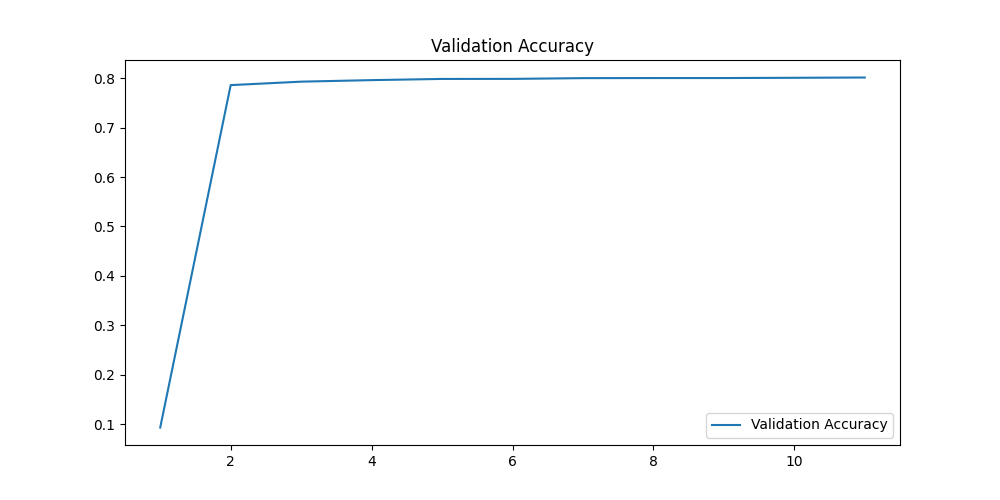
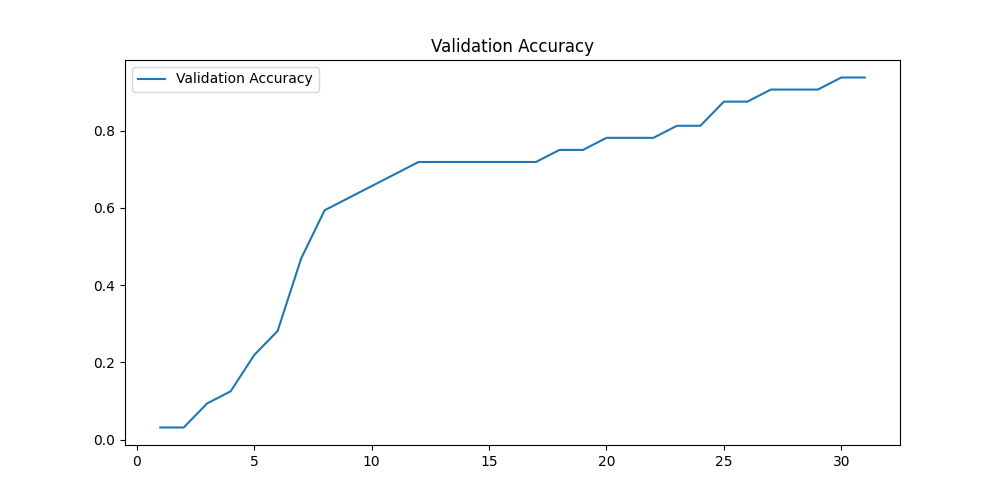
fixes

diff --git a/src/face_classification/train.py b/src/face_classification/train.py
@@ -1,24 +1,17 @@
 import torch
 import typer
+from pytorch_lightning import Trainer
+from pytorch_lightning.callbacks import ModelCheckpoint
+
 from metric_tracker import MetricTracker
 from model import PretrainedResNet34
-from pytorch_lightning import Trainer
-from pytorch_lightning.callbacks import Callback, ModelCheckpoint
-from torchvision import datasets, transforms
+from data import FaceDataset
 
-transform = transforms.Compose(
-    [
-        transforms.Resize((256, 256)),
-        transforms.ToTensor(),
-    ]
-)
-
-device = torch.device("cuda" if torch.cuda.is_available() else "mps" if torch.backends.mps.is_available() else "cpu")
 app = typer.Typer()
 
 # Hyperparameters
 BATCH_SIZE = 32
-EPOCHS = 2
+EPOCHS = 30
 
 
 @app.command()
@@ -26,22 +19,22 @@ def train(batch_size: int = BATCH_SIZE, epochs: int = EPOCHS) -> None:
     """Train a model on CIFAR10."""
     print("Training day and night")
 
-    train_set = datasets.CIFAR10("/tmp/cifar10", train=True, download=True, transform=transform)
-    val_set = datasets.CIFAR10("/tmp/cifar10", train=False, download=True, transform=transform)
+    train_set = FaceDataset(mode="train")
+    val_set = FaceDataset(mode="val")
     train_dataloader = torch.utils.data.DataLoader(train_set, batch_size=batch_size, num_workers=4)
     val_dataloader = torch.utils.data.DataLoader(val_set, batch_size=batch_size, num_workers=4)
 
-    model = PretrainedResNet34(num_classes=10).to(device)
+    model = PretrainedResNet34(num_classes=16)
     checkpoint_callback = ModelCheckpoint(
         monitor="val_acc",
         dirpath="checkpoints/",
-        filename="model-{epoch:02d}-{val_loss:.2f}",
+        filename="model-{epoch:02d}-{val_acc:.2f}",
         save_top_k=3,
         mode="max",
     )
     metric_tracker = MetricTracker()
 
-    trainer = Trainer(max_epochs=epochs, callbacks=[checkpoint_callback, metric_tracker])
+    trainer = Trainer(max_epochs=epochs, callbacks=[checkpoint_callback, metric_tracker], accelerator="auto")
     trainer.fit(model, train_dataloader, val_dataloaders=val_dataloader)
     print("Training finished")
 

diff --git a/src/face_classification/model.py b/src/face_classification/model.py
@@ -62,32 +62,27 @@ class PretrainedResNet34(pl.LightningModule):
 
         return self.model(x)
 
-    def training_step(self, batch, batch_idx):
-        """Training step."""
+
+    def _step(self, batch, mode):
+        """Common step function."""
         img, target = batch
         y_pred = self(img)
         loss = self.criterion(y_pred, target)
-        self.log("train_loss", loss, prog_bar=True, on_epoch=True, on_step=False)
-        self.log("train_acc", accuracy(y_pred, target), prog_bar=True, on_epoch=True, on_step=False)
+        self.log(f"{mode}_loss", loss, prog_bar=True, on_epoch=True, on_step=False)
+        self.log(f"{mode}_acc", accuracy(y_pred, target), prog_bar=True, on_epoch=True, on_step=False)
         return loss
+
+    def training_step(self, batch, batch_idx):
+        """Training step."""
+        return self._step(batch, "train")
 
     def validation_step(self, batch, batch_idx):
         """Validation step."""
-        img, target = batch
-        y_pred = self(img)
-        loss = self.criterion(y_pred, target)
-        self.log("val_loss", loss, prog_bar=True, on_epoch=True, on_step=False)
-        self.log("val_acc", accuracy(y_pred, target), prog_bar=True, on_epoch=True, on_step=False)
-        return loss
+        return self._step(batch, "val")
 
-    def test_step(self, batch):
+    def test_step(self, batch, batch_idx):
         """Test step."""
-        img, target = batch
-        y_pred = self(img)
-        loss = self.criterion(y_pred, target)
-        self.log("test_loss", loss, prog_bar=True, on_epoch=True, on_step=False)
-        self.log("test_acc", accuracy(y_pred, target), prog_bar=True, on_epoch=True, on_step=False)
-        return loss
+        return self._step(batch, "test")
 
     def configure_optimizers(self):
         """Configure optimizer."""

diff --git a/tasks.py b/tasks.py
@@ -45,11 +45,14 @@ def train(ctx: Context) -> None:
     ctx.run(f"python src/{PROJECT_NAME}/train.py", echo=True, pty=not WINDOWS)
 
 
+# call with invoke evaluate --model-path = <path here>
 @task
-def evaluate(ctx: Context) -> None:
-    """Evaluate a trained model."""
-    ctx.run(f"python src/{PROJECT_NAME}/evaluate.py models/model.pth", echo=True, pty=not WINDOWS)
-
+def evaluate(ctx: Context, model_path: str = None) -> None:
+    """Run evaluation with optional model path."""
+    if model_path is None:
+        ctx.run(f"python src/{PROJECT_NAME}/evaluate.py models/model.pth", echo=True, pty=not WINDOWS)
+    else:
+        ctx.run(f"python src/{PROJECT_NAME}/evaluate.py {model_path}", echo=True, pty=not WINDOWS)
 
 @task
 def test(ctx: Context) -> None:

diff --git a/src/face_classification/evaluate.py b/src/face_classification/evaluate.py
@@ -6,14 +6,13 @@ import typer
 from pytorch_lightning import Trainer
 from torch.utils.data import DataLoader
 
-from face_classification.data import FaceDataset
-from face_classification.model import PretrainedResNet34
+from data import FaceDataset
+from model import PretrainedResNet34
 
 # Define a specific checkpoint from the checkpoints directory
 model_checkpoint: str = os.path.join(
     os.path.dirname(__file__), "..", "..", "checkpoints", "model-epoch=01-val_loss=1.68.ckpt"
 )
-device = torch.device("cuda" if torch.cuda.is_available() else "cpu")
 
 app = typer.Typer()
 
